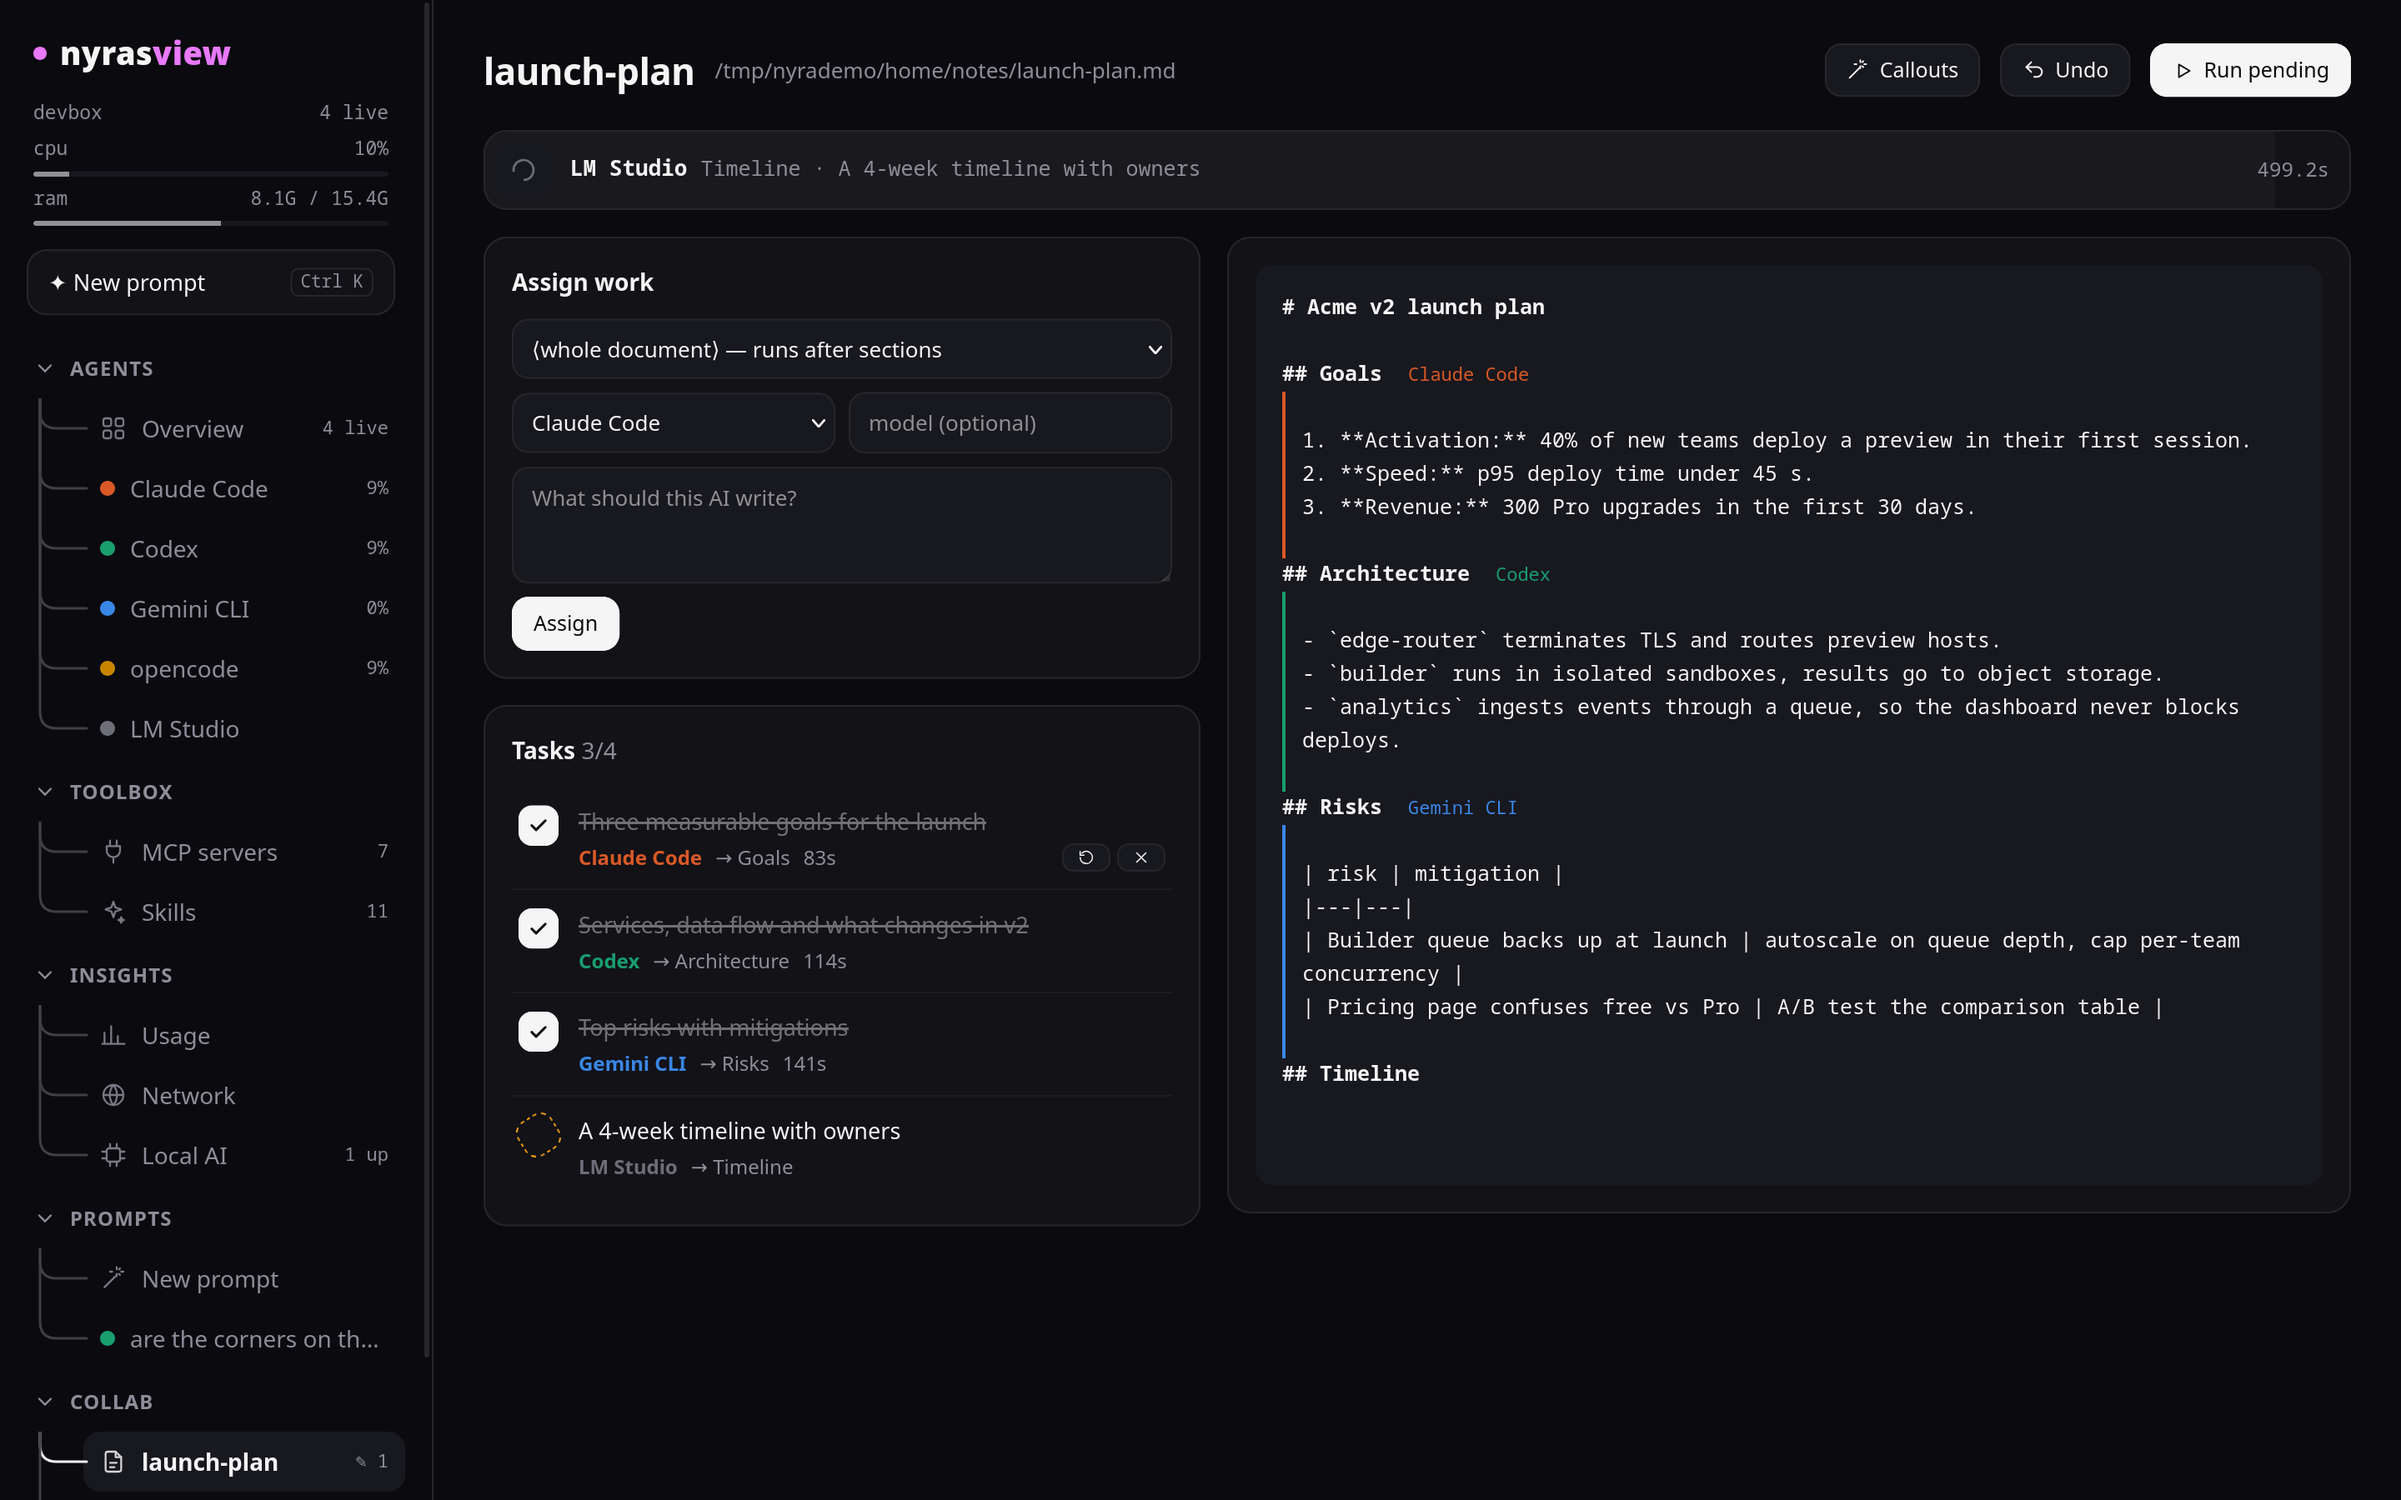
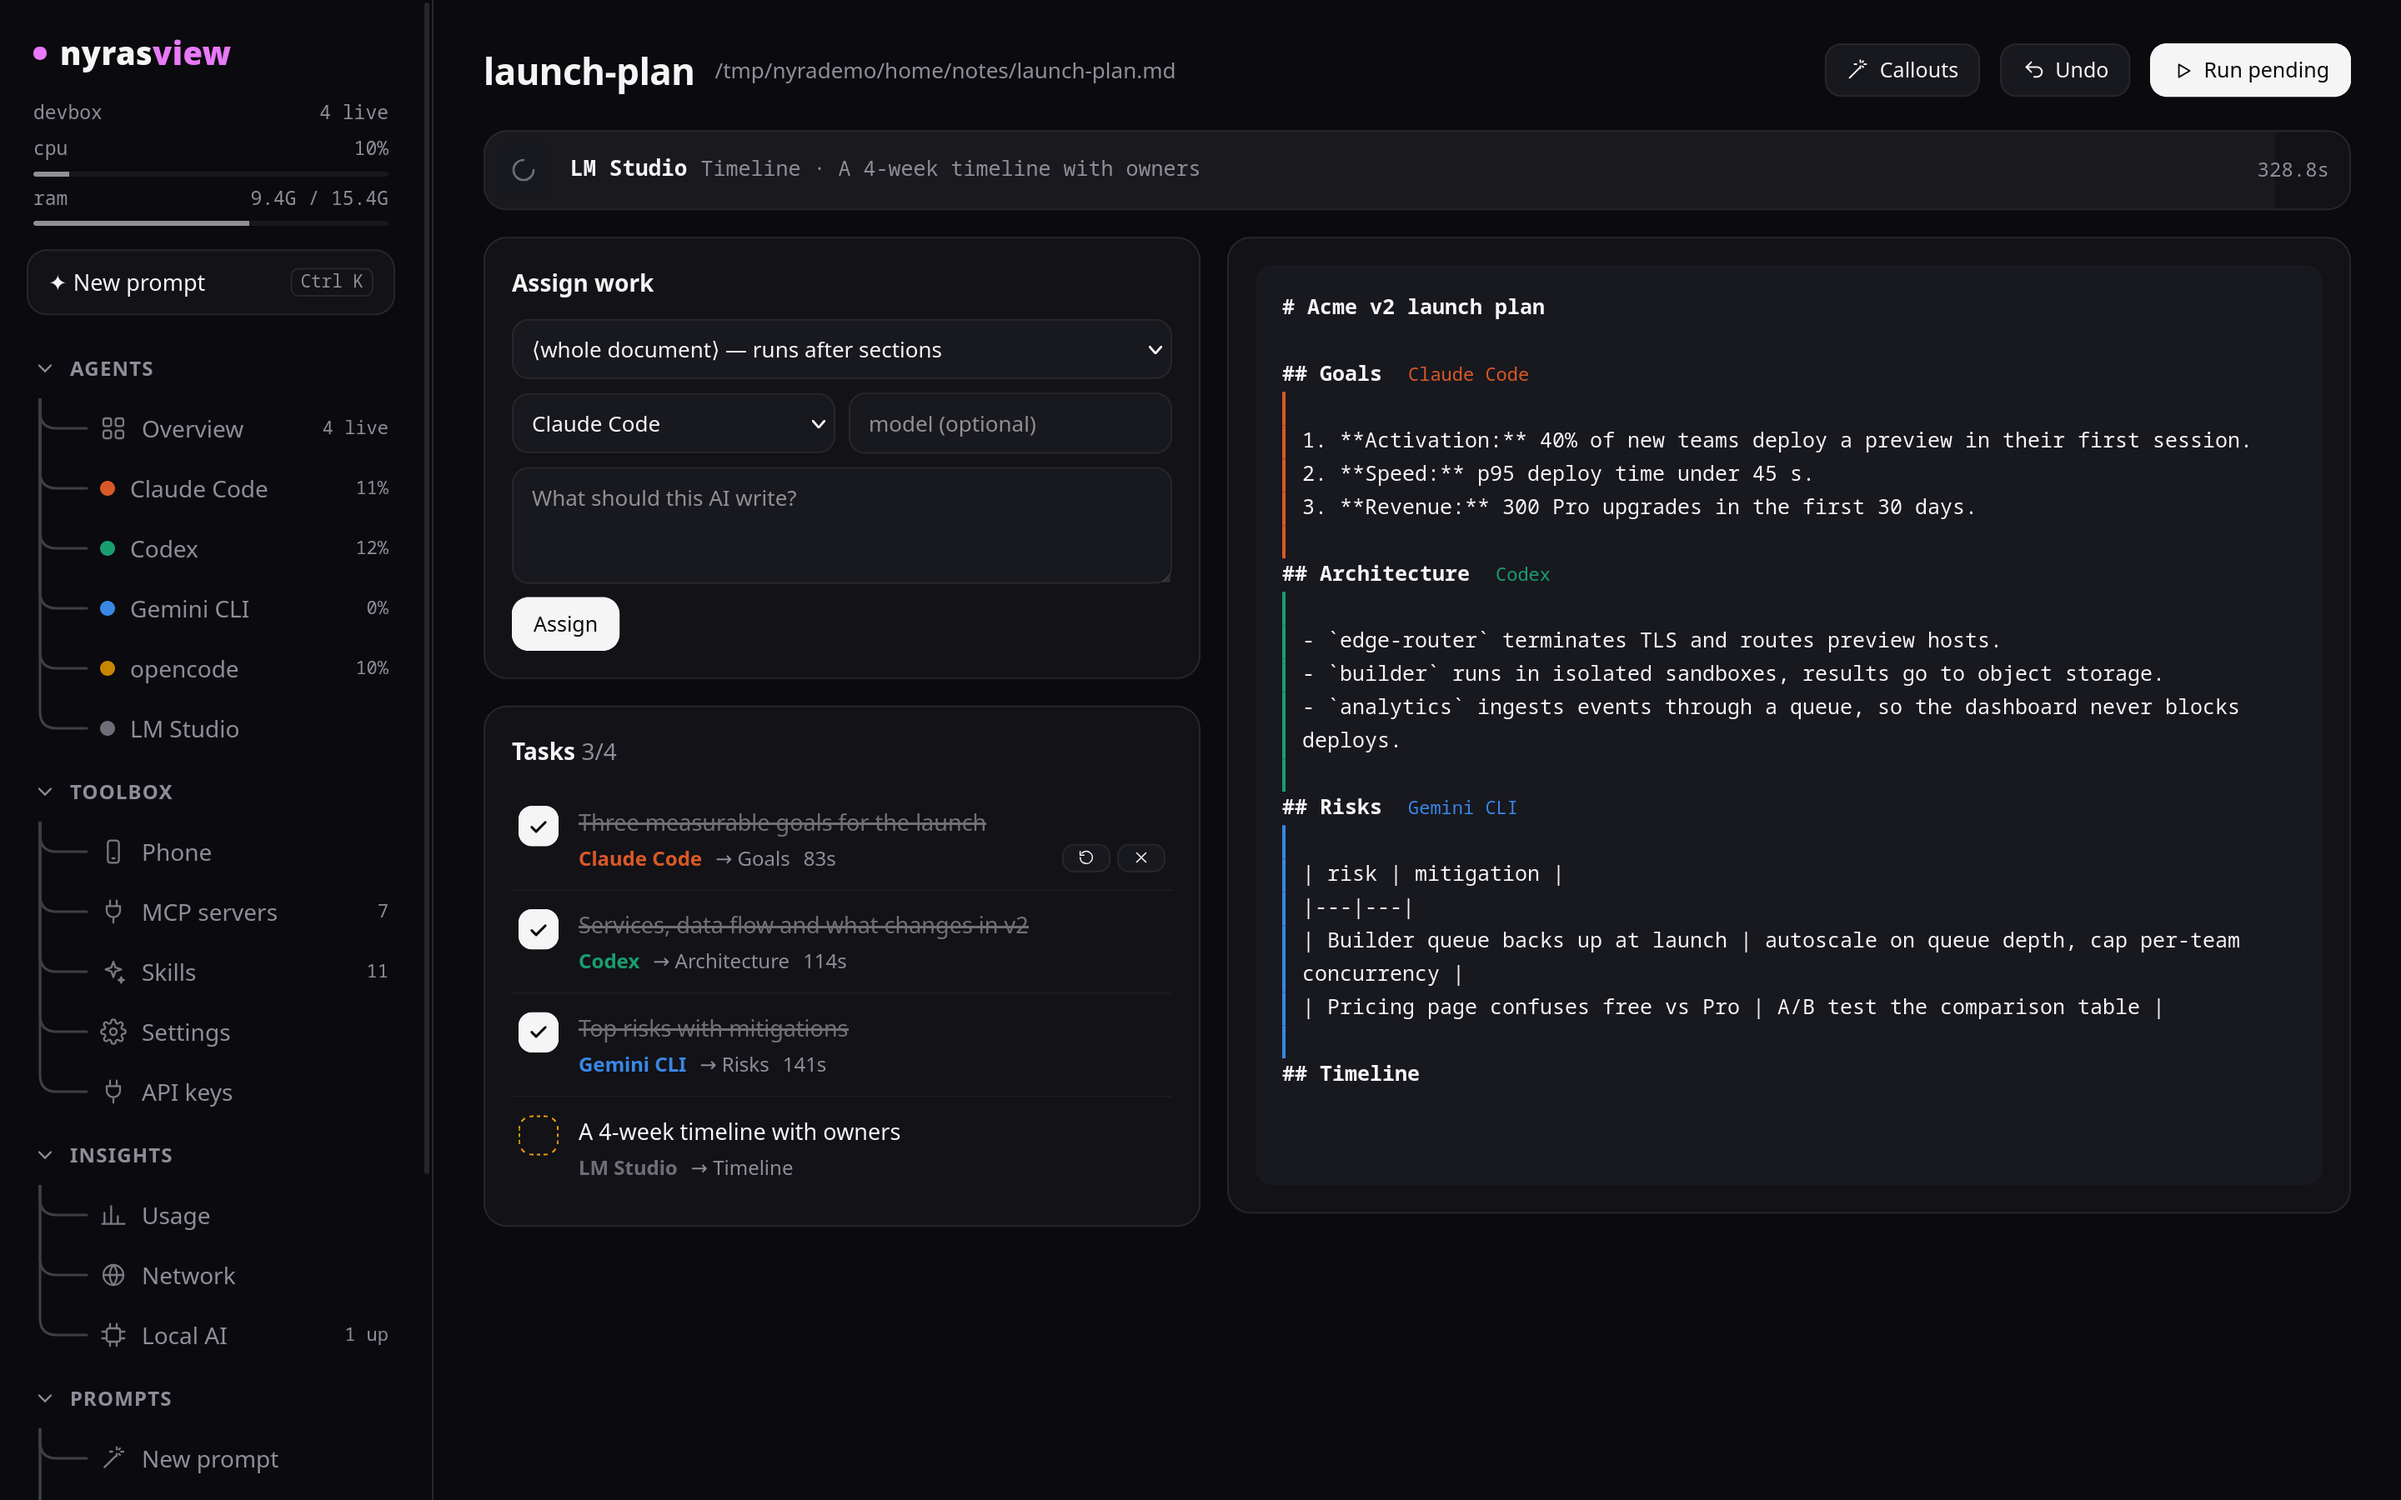
Fresh screenshots: self-heal, hand-off dialog, settings, phone layout; demo includes a self-heal run

diff --git a/tools/record.py b/tools/record.py
@@ -32,7 +32,7 @@ class B:
 
 
 async def main():
-    async with websockets.connect("ws://127.0.0.1:9333/session", max_size=200_000_000, ping_interval=None) as ws:
+    async with websockets.connect("ws://127.0.0.1:9334/session", max_size=200_000_000, ping_interval=None) as ws:
         b = B(ws)
         await b.cmd("session.new", {"capabilities": {}})
         ctx = (await b.cmd("browsingContext.create", {"type": "tab"}))["context"]
@@ -106,6 +106,8 @@ async def main():
             await asyncio.sleep(wait)
 
         if MODE == "stills":
+            await go("overview", 2)
+            await ev("localStorage.setItem('nyra.gsdone','1')")
             await go("overview", 5)
             await shot("overview.png")
             await go("agent:claude", 3)
@@ -127,8 +129,19 @@ async def main():
             await shot("usage.png")
             await go("doc:" + os.environ["DOC"], 3.5)
             await shot("collab.png")
-            await go("local", 3)
-            await shot("local-ai.png")
+            await go("settings", 3.5)
+            await shot("settings.png")
+            await go("heal", 3.5)
+            await shot("self-heal.png")
+            await go("agent:claude", 3)
+            await ev("openHandoff('claude'," + json.dumps(os.environ["WEB"]) + ")")
+            await asyncio.sleep(3)
+            await shot("handoff.png")
+            await b.cmd("browsingContext.setViewport", {"context": ctx, "viewport": {"width": 390, "height": 844}, "devicePixelRatio": 3})
+            await go("overview", 4)
+            await shot("mobile-overview.png")
+            await go("agent:claude", 3.5)
+            await shot("mobile-agent.png")
             return
 
         frames = []

diff --git a/tools/demo.py b/tools/demo.py
@@ -376,6 +376,15 @@ def build():
         (runs.DIR / meta["id"] / "out.log").write_text(r.stdout)
         runs._finish(runs.load(meta["id"]))
 
+    hj = STATE / "heal"
+    hj.mkdir(parents=True, exist_ok=True)
+    tail = ("src/pricing.tsx:42:7 - error TS2322: Type 'string' is not assignable to type 'number'.\n\n42       price={plan.price}\n"
+            "         ~~~~~\n\nFound 1 error in src/pricing.tsx:42")
+    (hj / "demoheal.json").write_text(json.dumps({"id": "demoheal", "cwd": str(WEB), "cmd": "npm run typecheck && npm test", "agent": "claude",
+        "tries": 3, "mode": "edit", "status": "passed", "created": now - 900, "finished": now - 820, "attempts": [
+            {"n": 1, "check": {"ok": False, "code": 2, "tail": tail, "lines": 7, "dur": 6.4}, "run": "runcla01", "fix": "done",
+             "said": "price came in as a string from the CMS; parse it with Number() in PlanCard and type the prop as number.", "at": now - 900},
+            {"n": 2, "check": {"ok": True, "code": 0, "tail": "", "lines": 0, "dur": 11.2}, "run": None, "at": now - 830}]}))
     lim = STATE / "limits.json"
     lim.write_text(json.dumps({"claude": {"five_hour": {"utilization": 0.58, "resets": now + 7400, "status": "allowed", "seen": now - 300},
                                           "seven_day": {"utilization": 0.29, "resets": now + 400000, "status": "allowed", "seen": now - 300}}, "_scanned": now}))

diff --git a/README.md b/README.md
@@ -17,9 +17,14 @@ Works with Claude Code, Codex, Gemini CLI, opencode, Kimi CLI, Antigravity, Curs
 | | |
 |---|---|
 | ![Overview](docs/media/overview.png) **Overview:** every agent, session, limit, alert and token at a glance | ![Watch](docs/media/watch.png) **Watch:** the file and the part of the page an agent is editing, with its cursor; hover to leave a note |
-| ![Compare](docs/media/prompt-compare.png) **Prompt and compare:** ask several agents at once and watch them answer side by side | ![MCP manager](docs/media/mcp.png) **MCP manager:** every server against every agent, one click to add or remove |
-| ![Collab](docs/media/collab.png) **Collab:** different AIs writing different sections of one document | ![Usage](docs/media/usage.png) **Usage:** 14 days of tokens per agent and model |
-| ![Agent](docs/media/agent.png) **Agent page:** sessions, limits, processes, MCP and network | ![Terminal UI](docs/media/tui.png) **Terminal UI:** the same data in your terminal |
+| ![Compare](docs/media/prompt-compare.png) **Prompt and compare:** ask several agents at once and watch them answer side by side | ![Self-heal](docs/media/self-heal.png) **Self-heal:** a check fails, an agent fixes it, the check passes |
+| ![Hand off](docs/media/handoff.png) **Hand off:** pass the work to another agent, or keep the same session going on an API key | ![MCP manager](docs/media/mcp.png) **MCP manager:** every server against every agent, one click to add or remove |
+| ![Collab](docs/media/collab.png) **Collab:** different AIs writing different sections of one document | ![Settings](docs/media/settings.png) **Settings:** everything in one place, plus the raw config |
+| ![Usage](docs/media/usage.png) **Usage:** 14 days of tokens per agent and model | ![Terminal UI](docs/media/tui.png) **Terminal UI:** the same data in your terminal |
+
+![On a phone](docs/media/mobile.png)
+
+**On your phone:** scan a QR code and you have it in your pocket.
 
 ## Install
 
